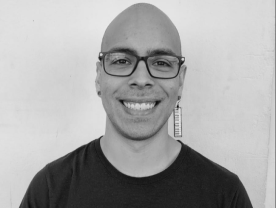
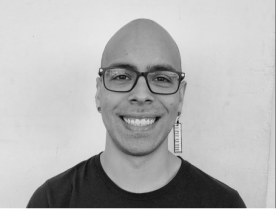
Fotos Joaco y Dani + arreglo Cami, Belu y Consu

Changed region(s): [[0.0, 0.0, 1.0, 1.0]]

diff --git a/FTPContent/public_html/integrantes.html b/FTPContent/public_html/integrantes.html
@@ -114,6 +114,18 @@
 
 <div class="card p-3 col-12 col-md-6 col-lg-2" style="max-width: 12em;min-width: 12em;">
 <div class="card-wrapper">
+<div class="card-img"><img alt="Mobirise" src="assets/images/integrantes/danielrojas.png" title="" /></div>
+
+<div class="card-box">
+<h4 class="card-title pb-3 mbr-fonts-style display-7">Daniel Rojas</h4>
+
+<p class="mbr-text mbr-fonts-style display-7">Bajo</p>
+</div>
+</div>
+</div>
+
+<div class="card p-3 col-12 col-md-6 col-lg-2" style="max-width: 12em;min-width: 12em;">
+<div class="card-wrapper">
 <div class="card-img"><img alt="Mobirise" src="assets/images/integrantes/demiansielecki.jpg" title="" /></div>
 
 <div class="card-box">
@@ -166,6 +178,18 @@
 
 <div class="card-box">
 <h4 class="card-title pb-3 mbr-fonts-style display-7">Gustavo S&aacute;nchez</h4>
+
+<p class="mbr-text mbr-fonts-style display-7">Tenor</p>
+</div>
+</div>
+</div>
+
+<div class="card p-3 col-12 col-md-6 col-lg-2" style="max-width: 12em;min-width: 12em;">
+<div class="card-wrapper">
+<div class="card-img"><img alt="Mobirise" src="assets/images/integrantes/joaquinayan.png" title="" /></div>
+
+<div class="card-box">
+<h4 class="card-title pb-3 mbr-fonts-style display-7">Joaquin Ayan</h4>
 
 <p class="mbr-text mbr-fonts-style display-7">Tenor</p>
 </div>
@@ -269,16 +293,16 @@
 </div>
 
 <div class="card p-3 col-12 col-md-6 col-lg-2" style="max-width: 12em;min-width: 12em;">
-	<div class="card-wrapper">
-	<div class="card-img"><img alt="Mobirise" src="assets/images/integrantes/marianostrologo.jpg" title="" /></div>
-	
-	<div class="card-box">
-	<h4 class="card-title pb-3 mbr-fonts-style display-7">Mariano Strologo</h4>
-	
-	<p class="mbr-text mbr-fonts-style display-7">Tenor</p>
-	</div>
-	</div>
-	</div>
+<div class="card-wrapper">
+<div class="card-img"><img alt="Mobirise" src="assets/images/integrantes/marianostrologo.jpg" title="" /></div>
+
+<div class="card-box">
+<h4 class="card-title pb-3 mbr-fonts-style display-7">Mariano Strologo</h4>
+
+<p class="mbr-text mbr-fonts-style display-7">Tenor</p>
+</div>
+</div>
+</div>
 
 <div class="card p-3 col-12 col-md-6 col-lg-2" style="max-width: 12em;min-width: 12em;">
 <div class="card-wrapper">
